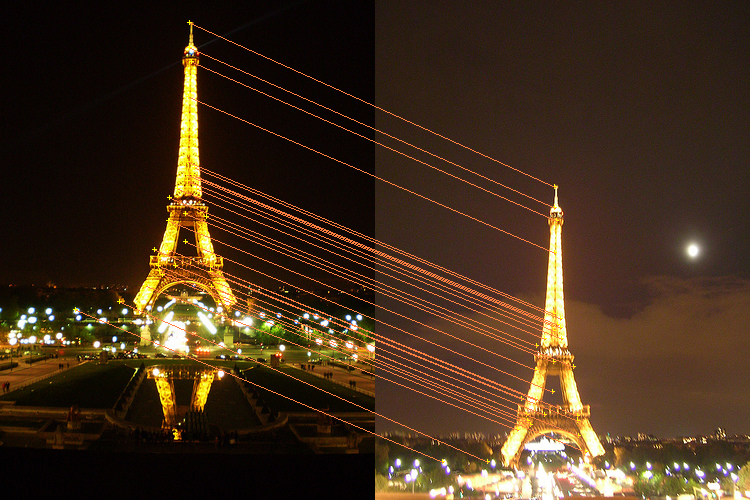
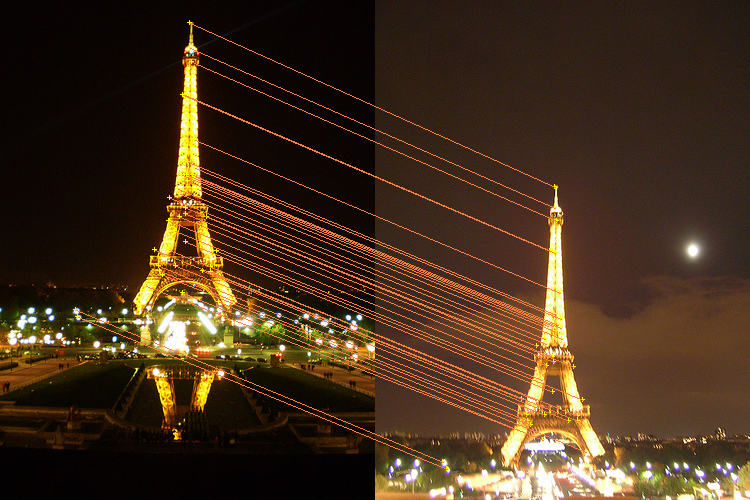
Commiting chnages for part4 and some paramter tuning for part3

diff --git a/a2.cpp b/a2.cpp
@@ -43,6 +43,7 @@ std::vector<line> match_lines;
 
 CImg <double> draw_descriptor_image(CImg<double> image, const vector<SiftDescriptor> descriptors, const char *filename)
 {
+    // cout<<"In draw_descriptor_image()m_1 function"<<endl;
   for(unsigned int i=0; i < descriptors.size(); i++)
     {
       int tx1 = 0, ty1 = 0, tx2 = 0, ty2 = 0;
@@ -52,8 +53,8 @@ CImg <double> draw_descriptor_image(CImg<double> image, const vector<SiftDescrip
 	  if(x==0 || y==0)
 	    for(int c=0; c<3; c++){
 	      //Find if coordinates are in workspace to draw crosshair
-	      tx1 = (descriptors[i].col + y - 1);
-	      ty1 = (descriptors[i].row + x - 1);
+	      tx1 = (descriptors.at(i).col + y - 1);
+	      ty1 = (descriptors.at(i).row + x - 1);
 	      if (tx1 >= 0 && tx1 < image.width() && ty1 >= 0 && ty1 < image.height())
 	      {	
 		image( tx1, ty1, 0, c) = color_point[c];		
@@ -61,12 +62,15 @@ CImg <double> draw_descriptor_image(CImg<double> image, const vector<SiftDescrip
 	    }
     }
   image.get_normalize(0,255).save(filename);
+  // cout<<"End of draw_descriptor_image()m_1 function"<<endl;
   return image;
 }
 
 CImg <double> draw_descriptor_image(CImg<double> image, const vector<line> match_lines, const char *filename)
 {
-  for(unsigned int i=0; i < match_lines.size(); i++)
+    // cout<<"In draw_descriptor_image()m_2 function"<<endl;
+    int i=0;
+  for(i=0; i < int(match_lines.size()); i++)
     {
       int tx1 = 0, ty1 = 0, tx2 = 0, ty2 = 0;
       double color_point[] = {255.0, 255.0, 0};
@@ -75,11 +79,11 @@ CImg <double> draw_descriptor_image(CImg<double> image, const vector<line> match
       if(x==0 || y==0)
         for(int c=0; c<3; c++){
           //Find if coordinates are in workspace to draw crosshair
-          tx1 = (match_lines[i].x_1 + y - 1);
-          ty1 = (match_lines[i].y_1 + x - 1);
+          tx1 = (match_lines.at(i).x_1 + y - 1);
+          ty1 = (match_lines.at(i).y_1 + x - 1);
 
-          tx2=(match_lines[i].x_2+y-1);
-          ty2 = (match_lines[i].y_2 + x - 1);
+          tx2=(match_lines.at(i).x_2+y-1);
+          ty2 = (match_lines.at(i).y_2 + x - 1);
 
           if (tx1 >= 0 && tx1 < image.width() && ty1 >= 0 && ty1 < image.height())
           { 
@@ -93,6 +97,7 @@ CImg <double> draw_descriptor_image(CImg<double> image, const vector<line> match
         }
     }
   image.get_normalize(0,255).save(filename);
+  // cout<<"End of draw_descriptor_image()m_2 function"<<endl;
   return image;
 }
 
@@ -201,20 +206,24 @@ void inverseMatrix(double A[N][N], double inverse[N][N])
 
 void getWarpedImage(CImg<double> input_image,double projectiveTransform[][3])
 {
-	double inverse[3][3];
-	inverseMatrix(projectiveTransform,inverse);
-	CImg<double> output_image(1024,1024);
-	
-	cimg_forXY(input_image,i,j)
-	{
-		float x = (inverse[0][0] * i + inverse[0][1] *j + inverse[0][2]*1);
-		float y = (inverse[1][0] * i + inverse[1][1] *j + inverse[1][2]*1);
-		float w = (inverse[2][0] * i + inverse[2][1] *j + inverse[2][2]*1);
-		if((x/w > 0) && (x/w<1024) && (y/w>0) && (y/w<1024))	
-			output_image(i,j) = input_image(int(x/w),int(y/w));
-	}
+    double inverse[3][3];
+    inverseMatrix(projectiveTransform,inverse);
+    CImg<double> output_image(input_image.width(),input_image.height(),1,3,255);
+    
+    cimg_forXY(input_image,i,j)
+    {
+        float x = (inverse[0][0] * i + inverse[0][1] *j + inverse[0][2]*1);
+        float y = (inverse[1][0] * i + inverse[1][1] *j + inverse[1][2]*1);
+        float w = (inverse[2][0] * i + inverse[2][1] *j + inverse[2][2]*1);
+        if((x/w > 0) && (x/w<input_image.width()) && (y/w>0) && (y/w<input_image.height())) 
+        {
+            output_image(i,j,0,0) = input_image(int(x/w),int(y/w),0,0);
+            output_image(i,j,0,1) = input_image(int(x/w),int(y/w),0,1);
+            output_image(i,j,0,2) = input_image(int(x/w),int(y/w),0,2);
+        }
+    }
 
-	output_image.save("output.png");
+    output_image.save("outputPart14_1.png");
 
 }
 
@@ -263,25 +272,31 @@ CImg<double> getTransformationMatrix(int x1,int y1,int x2,int y2,int x3,int y3,i
 
 
 CImg<double> drawLines(CImg<double> image,std::vector<line> lineVector){
+    // cout<<"In drawLines () function"<<endl;
     const unsigned char color[] = { 255,128,64 };
     // input_image.draw_line(40,40,80,70,color);
-    for(int i=0;i<lineVector.size();i++){
-        image.draw_line(lineVector[i].x_1,lineVector[i].y_1,lineVector[i].x_2,lineVector[i].y_2,color);
+    for(int i=0;i<int(lineVector.size());i++){
+        image.draw_line(lineVector.at(i).x_1,lineVector.at(i).y_1,lineVector.at(i).x_2,lineVector.at(i).y_2,color);
     }
+    // cout<<"End of drawLines() function"<<endl;
     return image;
 
 }
 
 bool comparator_function(data_tuple obj_1,data_tuple obj_2){
+    // cout<<"Inside comparator_function()"<<endl;
+    // cout<<"End of comparator_function() function"<<endl;
+    
     return (obj_1.short_distance<obj_2.short_distance);
 }
 
 
 double getEuclideanDistance(std::vector<float> datapoint_1,std::vector<float> datapoint_2){
 double distance=0.0;
+// cout<<"getEuclideanDistanc() function"<<endl;
 // cout<<datapoint_1.size()<<","<<datapoint_2.size()<<endl;
 for(int i=0;i<int(datapoint_1.size());i++){
-    distance+=(datapoint_1[i]-datapoint_2[i])*(datapoint_1[i]-datapoint_2[i]);
+    distance+=(datapoint_1.at(i)-datapoint_2.at(i))*(datapoint_1.at(i)-datapoint_2.at(i));
     // cout<<"("<<datapoint_1[i]<<","<<datapoint_2[i]<<")"<<endl;
 }
 // cout<<"D:"<<sqrtf(distance)<<endl;
@@ -294,6 +309,7 @@ int max_width=image_1.width();
 int max_height=image_1.height();
 
 CImg<double> stiched_image(2*max_width,max_height,1,3);
+// cout<<"In stcichImages() function"<<endl;
 for(int i=0;i<max_height;i++){
     for(int j=0;j<max_width;j++){
         for(int c=0;c<3;c++){
@@ -312,49 +328,28 @@ for(int i=0;i<max_height;i++){
 return stiched_image;
 }
 
-void draw_sift_matches(CImg<double> input_image_1,CImg<double> input_image_2,std::vector<data_tuple> matching_vectors,int max_width,const char* output_file_name){
-    
-    vector<SiftDescriptor> image_1_descriptors=Sift::compute_sift(input_image_1.get_RGBtoHSI().get_channel(2));
-    vector<SiftDescriptor> image_2_descriptors=Sift::compute_sift(input_image_2.get_RGBtoHSI().get_channel(2));
-    for(int i=0;i<image_2_descriptors.size();i++){
-    image_2_descriptors[i].col=image_2_descriptors[i].col+max_width;
-    }
-    CImg <double> stiched_image=stcichImages(input_image_1,input_image_2);
-    CImg<double> sift_descriptor;
-    sift_descriptor=draw_descriptor_image(stiched_image,image_1_descriptors,"image_sift.png");
-    sift_descriptor=draw_descriptor_image(sift_descriptor,image_2_descriptors,"image_sift.png");
-    std::vector<line>lineVector;
-    for(int i=0;i<matching_vectors.size();i++){
-        int row_1=image_1_descriptors[matching_vectors[i].feature_point_1].col;
-        int col_1=image_1_descriptors[matching_vectors[i].feature_point_1].row;
-        int row_2=image_2_descriptors[matching_vectors[i].feature_point_2].col;
-        int col_2=image_2_descriptors[matching_vectors[i].feature_point_2].row;
-        lineVector.push_back({row_1,col_1,row_2,col_2});
-        }
-
-    CImg<double> sift_match_image=drawLines(sift_descriptor,lineVector);
-    sift_match_image.save(output_file_name);
-}
 void draw_sift_matches(CImg<double> input_image_1,CImg<double> input_image_2,std::vector<line> lineVector,int max_width,const char* output_file_name){
-    
+    // cout<<"In draw_sift_matches()_m2 function"<<endl;
     vector<SiftDescriptor> image_1_descriptors=Sift::compute_sift(input_image_1.get_RGBtoHSI().get_channel(2));
     vector<SiftDescriptor> image_2_descriptors=Sift::compute_sift(input_image_2.get_RGBtoHSI().get_channel(2));
-
+    int i=0;
     std::vector<SiftDescriptor> v;
-    for(int i=0;i<image_2_descriptors.size();i++){
+    for(i=0;i<int(image_2_descriptors.size());i++){
     image_2_descriptors[i].col=image_2_descriptors[i].col+max_width;
     }
     CImg <double> stiched_image=stcichImages(input_image_1,input_image_2);
     CImg<double> sift_descriptor;
-    for(int i=0;i<lineVector.size();i++){
+    for(i=0;i<int(lineVector.size());i++){
         lineVector[i].x_2=lineVector[i].x_2+max_width;
     }
     sift_descriptor=draw_descriptor_image(stiched_image,lineVector,output_file_name);
     CImg<double> sift_match_image=drawLines(sift_descriptor,lineVector);
     sift_match_image.save(output_file_name);
+    // cout<<"End of draw_sift_matches()_m2 function"<<endl;
 }
 
-std::vector<line> get_sift_matching(CImg<double> input_image_1,CImg<double> input_image_2,double threshold=0.75) {
+std::vector<line> get_sift_matching(CImg<double> input_image_1,CImg<double> input_image_2,double threshold=0.85) {
+    // cout<<"get_sift_matching() function"<<endl;
     int max_width,max_height;
     if(input_image_1.height()<=input_image_2.height()){
         max_height=input_image_2.height();
@@ -373,13 +368,13 @@ input_image_2=input_image_2.resize(max_width,max_height);
 vector<SiftDescriptor> image_1_descriptors=Sift::compute_sift(input_image_1.get_RGBtoHSI().get_channel(2));
 vector<SiftDescriptor> image_2_descriptors=Sift::compute_sift(input_image_2.get_RGBtoHSI().get_channel(2));
 std::vector<data_tuple> matching_vectors;
-
-for(int i=0;i<image_1_descriptors.size();i++){
+int i=0,j=0;
+for(i=0;i<int(image_1_descriptors.size());i++){
     int point_1=-1,point_2=-1;
     double sd_1=DBL_MAX;
     double sd_2=DBL_MAX;
     double curr_distance;
-    for(int j=0;j<image_2_descriptors.size();j++){
+    for( j=0;j<int(image_2_descriptors.size());j++){
         curr_distance=getEuclideanDistance(image_1_descriptors[i].descriptor,image_2_descriptors[j].descriptor); 
         if(curr_distance<sd_1){
             point_2=point_1;
@@ -402,7 +397,7 @@ for(int i=0;i<image_1_descriptors.size();i++){
 }
     std::vector<line>lineVector;
     
-for(int i=0;i<matching_vectors.size();i++){
+for(i=0;i<int(matching_vectors.size());i++){
     int row_1=image_1_descriptors[matching_vectors[i].feature_point_1].col;
     int col_1=image_1_descriptors[matching_vectors[i].feature_point_1].row;
     int row_2=image_2_descriptors[matching_vectors[i].feature_point_2].col;
@@ -410,6 +405,7 @@ for(int i=0;i<matching_vectors.size();i++){
     lineVector.push_back({row_1,col_1,row_2,col_2});
     }
     draw_sift_matches(input_image_1,input_image_2,lineVector,max_width,"sift_match.png");
+    // cout<<"End of get_sift_matching() function"<<endl;
    return lineVector;
 
 }
@@ -417,7 +413,7 @@ for(int i=0;i<matching_vectors.size();i++){
 Model generateRansacModel(CImg<double> image1, CImg<double> image2)
 {
     
-
+    // cout<<"In generateRansacModel() function"<<endl;
     struct Model ransac_model;
     vector<line> siftCorrespondence = get_sift_matching(image1, image2);
     int iterationCount = 30000, i, j, inliner, maxInline=-2147483648;
@@ -436,7 +432,7 @@ Model generateRansacModel(CImg<double> image1, CImg<double> image2)
         inliner = 0;
         std::vector<line> temp;
          tranformMatrix = getTransformationMatrix(l1.x_1,l1.y_1,l2.x_1,l2.y_1,l3.x_1,l3.y_1,l4.x_1,l4.y_1,l1.x_2,l1.y_2,l2.x_2,l2.y_2,l3.x_2,l3.y_2,l4.x_2,l4.y_2);
-        for(j=4;j<siftCorrespondence.size();j++)
+        for(j=4;j<int(siftCorrespondence.size());j++)
         {
             x_1 = siftCorrespondence.at(j).x_1;
             y_1 = siftCorrespondence.at(j).y_1;
@@ -468,12 +464,15 @@ Model generateRansacModel(CImg<double> image1, CImg<double> image2)
     ransac_model.transform_matrix=bestMatrix;
     ransac_model.maxInliners=maxInline;
     ransac_model.match_lines=sift_match_lines;
+    // cout<<"End of generateRansacModel() function"<<endl;
+
     return ransac_model;
+
 
 }
 
-CImg<double> sift_match_pruning(CImg<double> input_image_1,CImg <double> input_image_2){
-
+void  sift_match_pruning(CImg<double> input_image_1,CImg <double> input_image_2){
+    // cout<<"sift_match_pruning() function"<<endl;
     int max_width,max_height;
     if(input_image_1.height()<=input_image_2.height()){
         max_height=input_image_2.height();
@@ -491,7 +490,9 @@ input_image_1=input_image_1.resize(max_width,max_height);
 input_image_2=input_image_2.resize(max_width,max_height);
 Model ransac_model=generateRansacModel(input_image_1,input_image_2);
 // draw_sift_matches(input_image_1,input_image_2,ransac_model.match_lines,max_width,"sift_ransac_match.jpg");
-draw_sift_matches(input_image_1,input_image_2,ransac_model.match_lines,max_width,"sift_ransac_match.png");
+ draw_sift_matches(input_image_1,input_image_2,ransac_model.match_lines,max_width,"sift_ransac_match.png");
+// cout<<"End of sift_match_pruning() function"<<endl;
+
 
 }
 
@@ -774,18 +775,30 @@ int main(int argc, char **argv)
 	CImg<double> input_image_2(argv[3]);
 	get_sift_matching(input_image_1,input_image_2);
     sift_match_pruning(input_image_1,input_image_2);
- //    sift_matching_pruning(input_image_1,input_image_2);
-    // generateRansacModel(input_image_1,input_image_2);
-
-	
-	}
+    // cout<<"part3 end"<<endl;
+ }
 	else if(part == "part4"){
+        string file_1=argv[2];
+            string file_2=argv[3];
+            CImg<double> input_image_1(argv[2]);
+            CImg<double> input_image_2(argv[3]);
+        Model ransac_model=generateRansacModel(input_image_1,input_image_2);
+        CImg<double> transformationMatrix=ransac_model.transform_matrix;
+        double transformedMatrix[3][3];
 
-	}
-//    
-//    
-//feel free to add more conditions for other parts (e.g. more specific)
-//parts, for debugging, etc.
+        transformedMatrix[0][0] = transformationMatrix(0,0);
+                transformedMatrix[0][1] = transformationMatrix(0,1);
+                transformedMatrix[0][2] = transformationMatrix(0,2);
+                transformedMatrix[1][0] = transformationMatrix(0,3);
+                transformedMatrix[1][1] = transformationMatrix(0,4);
+                transformedMatrix[1][2] = transformationMatrix(0,5);
+                transformedMatrix[2][0] = transformationMatrix(0,6);
+                transformedMatrix[2][1] = transformationMatrix(0,7);
+                transformedMatrix[2][2] = 1;
+        
+        getWarpedImage(input_image_2, transformedMatrix);
+    }
+
   }
   catch(const string &err) {
     cerr << "Error: " << err << endl;
